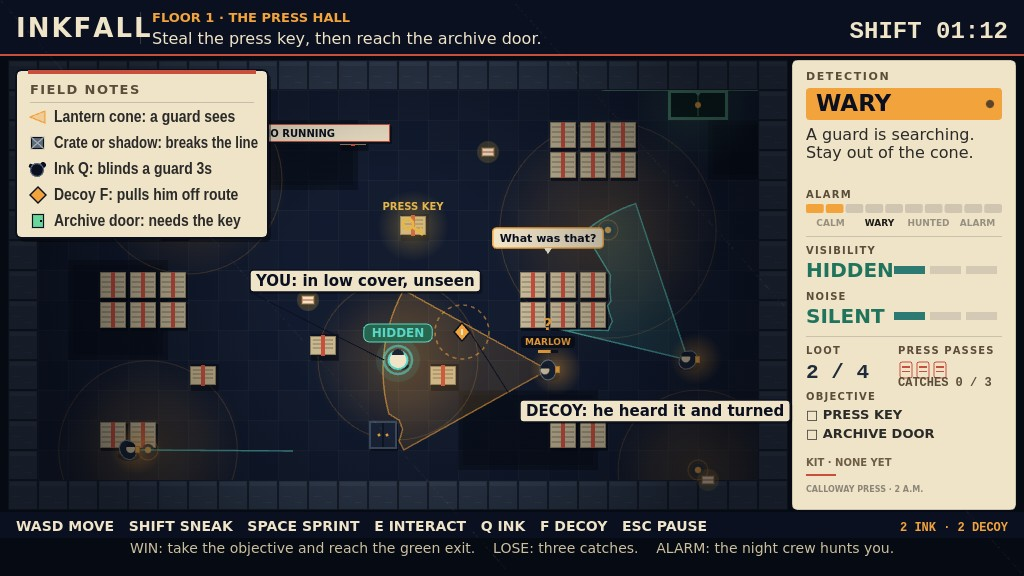
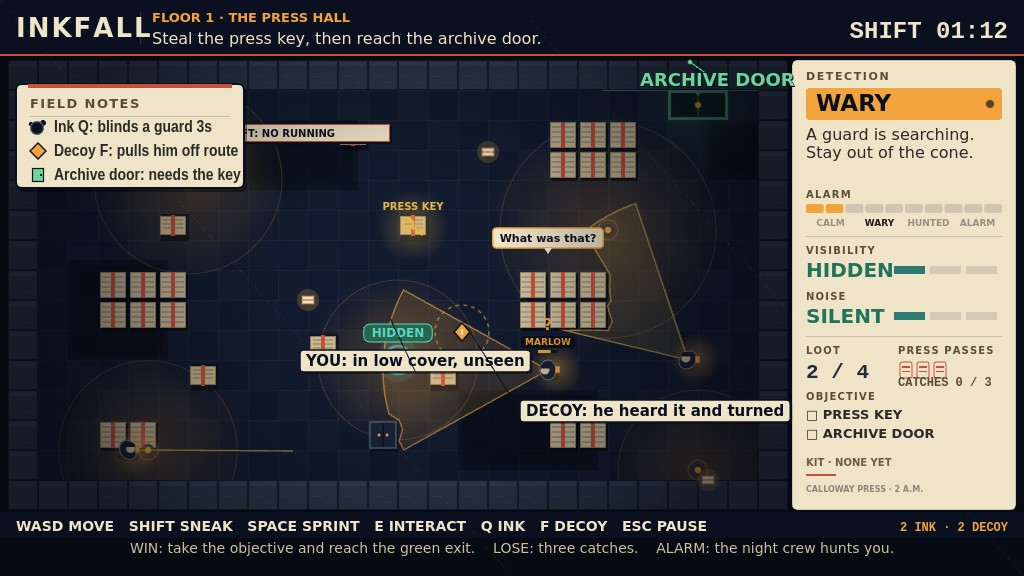
INKFALL pass 4: compact legend, labelled archive door, warm guard cones

diff --git a/game/src/hud.js b/game/src/hud.js
@@ -168,29 +168,7 @@ function noteText(value, x, y, maxWidth) {
 function noteIcon(kind, x, y) {
   ctx.save();
   ctx.lineWidth = 1.2;
-  if (kind === 'cone') {
-    ctx.beginPath();
-    ctx.moveTo(x, y);
-    ctx.lineTo(x + 15, y - 6);
-    ctx.lineTo(x + 15, y + 6);
-    ctx.closePath();
-    ctx.fillStyle = rgba(PALETTE.amber, 0.34);
-    ctx.fill();
-    ctx.strokeStyle = PALETTE.amber;
-    ctx.stroke();
-  } else if (kind === 'crate') {
-    ctx.fillStyle = PALETTE.steel;
-    ctx.fillRect(x + 1, y - 6, 13, 12);
-    ctx.strokeStyle = PALETTE.ink;
-    ctx.strokeRect(x + 1.5, y - 5.5, 12, 11);
-    ctx.beginPath();
-    ctx.moveTo(x + 1, y - 6);
-    ctx.lineTo(x + 14, y + 6);
-    ctx.moveTo(x + 14, y - 6);
-    ctx.lineTo(x + 1, y + 6);
-    ctx.strokeStyle = 'rgba(239,227,200,0.55)';
-    ctx.stroke();
-  } else if (kind === 'ink') {
+  if (kind === 'ink') {
     ctx.fillStyle = PALETTE.ink;
     ctx.beginPath();
     ctx.arc(x + 7, y + 1, 6.5, 0, Math.PI * 2);
@@ -248,9 +226,29 @@ function shotLabel(value, x, y, endX, endY, side = 'right') {
   ctx.lineWidth = 1.5;
   ctx.stroke();
   txt(ctx, value, x + 6, y + 16, 15, PALETTE.ink, 'left', '700');
-  const sx = side === 'right' ? x + w : x;
-  const sy = side === 'bottomleft' ? y + h : y + h / 2;
+  const sx = side === 'right' ? x + w : side === 'bottom' ? x + w / 2 : x;
+  const sy = side === 'bottomleft' || side === 'bottom' ? y + h : y + h / 2;
   shotLeader(sx, sy, endX, endY);
+}
+
+// In-world exit tag for the cover: green type with a thin leader to the recess.
+function shotExitLabel() {
+  const x = 640;
+  const y = 86;
+  ctx.save();
+  ctx.strokeStyle = PALETTE.green;
+  ctx.lineWidth = 1;
+  ctx.beginPath();
+  ctx.moveTo(704, 72);
+  ctx.lineTo(690, 62);
+  ctx.stroke();
+  ctx.fillStyle = PALETTE.green;
+  ctx.beginPath();
+  ctx.arc(690, 62, 2, 0, Math.PI * 2);
+  ctx.fill();
+  txt(ctx, 'ARCHIVE DOOR', x + 1, y + 1, 18, PALETTE.ink, 'left', '800');
+  txt(ctx, 'ARCHIVE DOOR', x, y, 18, PALETTE.green, 'left', '800');
+  ctx.restore();
 }
 
 function shotDecoy(state) {
@@ -285,9 +283,9 @@ export function drawShotNotes(state) {
   ctx = state.ctx;
   shotDecoy(state);
   const x = 16;
-  const y = 70;
-  const w = 252;
-  const h = 168;
+  const y = 84;
+  const w = 228;
+  const h = 104;
   rr(ctx, x + 3, y + 4, w, h, 6);
   ctx.fillStyle = 'rgba(0,0,0,0.4)';
   ctx.fill();
@@ -303,19 +301,18 @@ export function drawShotNotes(state) {
   ctx.fillStyle = 'rgba(10,16,32,0.18)';
   ctx.fillRect(x + 14, y + 32, w - 28, 1);
   const rows = [
-    ['cone', 'Lantern cone: a guard sees'],
-    ['crate', 'Crate or shadow: breaks the line'],
     ['ink', 'Ink Q: blinds a guard 3s'],
     ['decoy', 'Decoy F: pulls him off route'],
     ['door', 'Archive door: needs the key'],
   ];
   for (let i = 0; i < rows.length; i += 1) {
-    const ry = y + 52 + i * 26;
+    const ry = y + 48 + i * 24;
     noteIcon(rows[i][0], x + 14, ry - 5);
-    noteText(rows[i][1], x + 38, ry, w - 48);
+    noteText(rows[i][1], x + 38, ry, w - 40);
   }
-  shotLabel('YOU: in low cover, unseen', 250, 270, 384, 360, 'bottomleft');
+  shotLabel('YOU: in low cover, unseen', 300, 350, 390, 318, 'bottom');
   shotLabel('DECOY: he heard it and turned', 520, 400, 470, 332, 'left');
+  shotExitLabel();
 }
 
 export function drawHud(state) {

diff --git a/game/src/guards.js b/game/src/guards.js
@@ -1,5 +1,5 @@
 // Lantern watchmen: patrol, suspicion, search, chase, catch, plus the rotating brass-eye cameras.
-import { GUARD, DETECT } from './config.js';
+import { GUARD, DETECT, PALETTE } from './config.js';
 import { blockedCircle, lineBlocked, blockingPoint } from './level.js';
 
 export const EV_CATCH = 1;
@@ -18,9 +18,9 @@ const wrapAngle = (a) => {
 const angleTo = (x1, y1, x2, y2) => Math.atan2(y2 - y1, x2 - x1);
 
 export function guardColor(guard) {
-  if (guard.state === 'chase') return '#c94f3d';
-  if (guard.state === 'suspicious' || guard.state === 'search') return '#f2a33c';
-  return '#59d6c7';
+  if (guard.state === 'chase') return PALETTE.red;
+  if (guard.state === 'suspicious' || guard.state === 'search') return PALETTE.amber;
+  return PALETTE.gold;
 }
 
 function makeGuard(def, index) {
